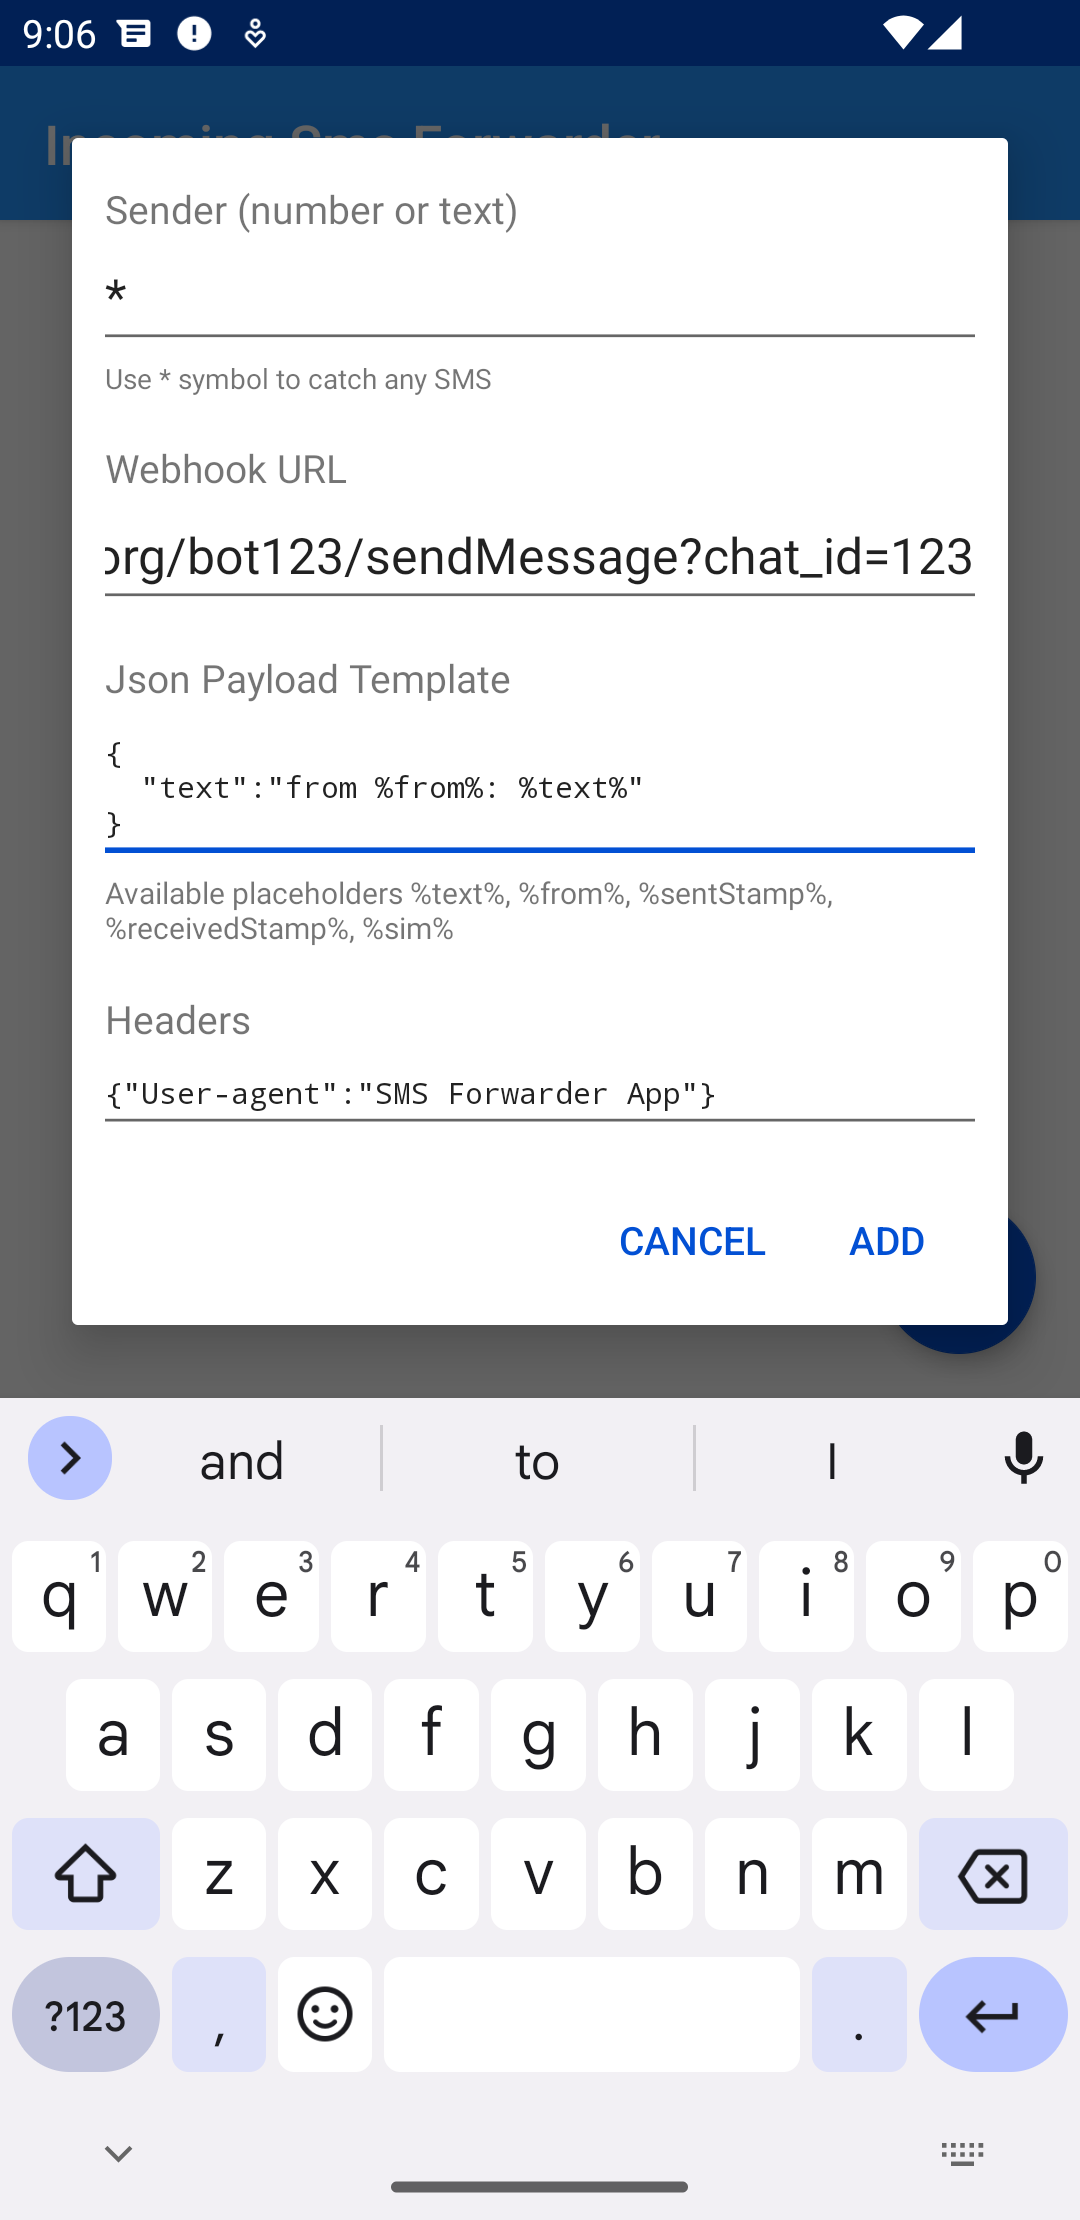
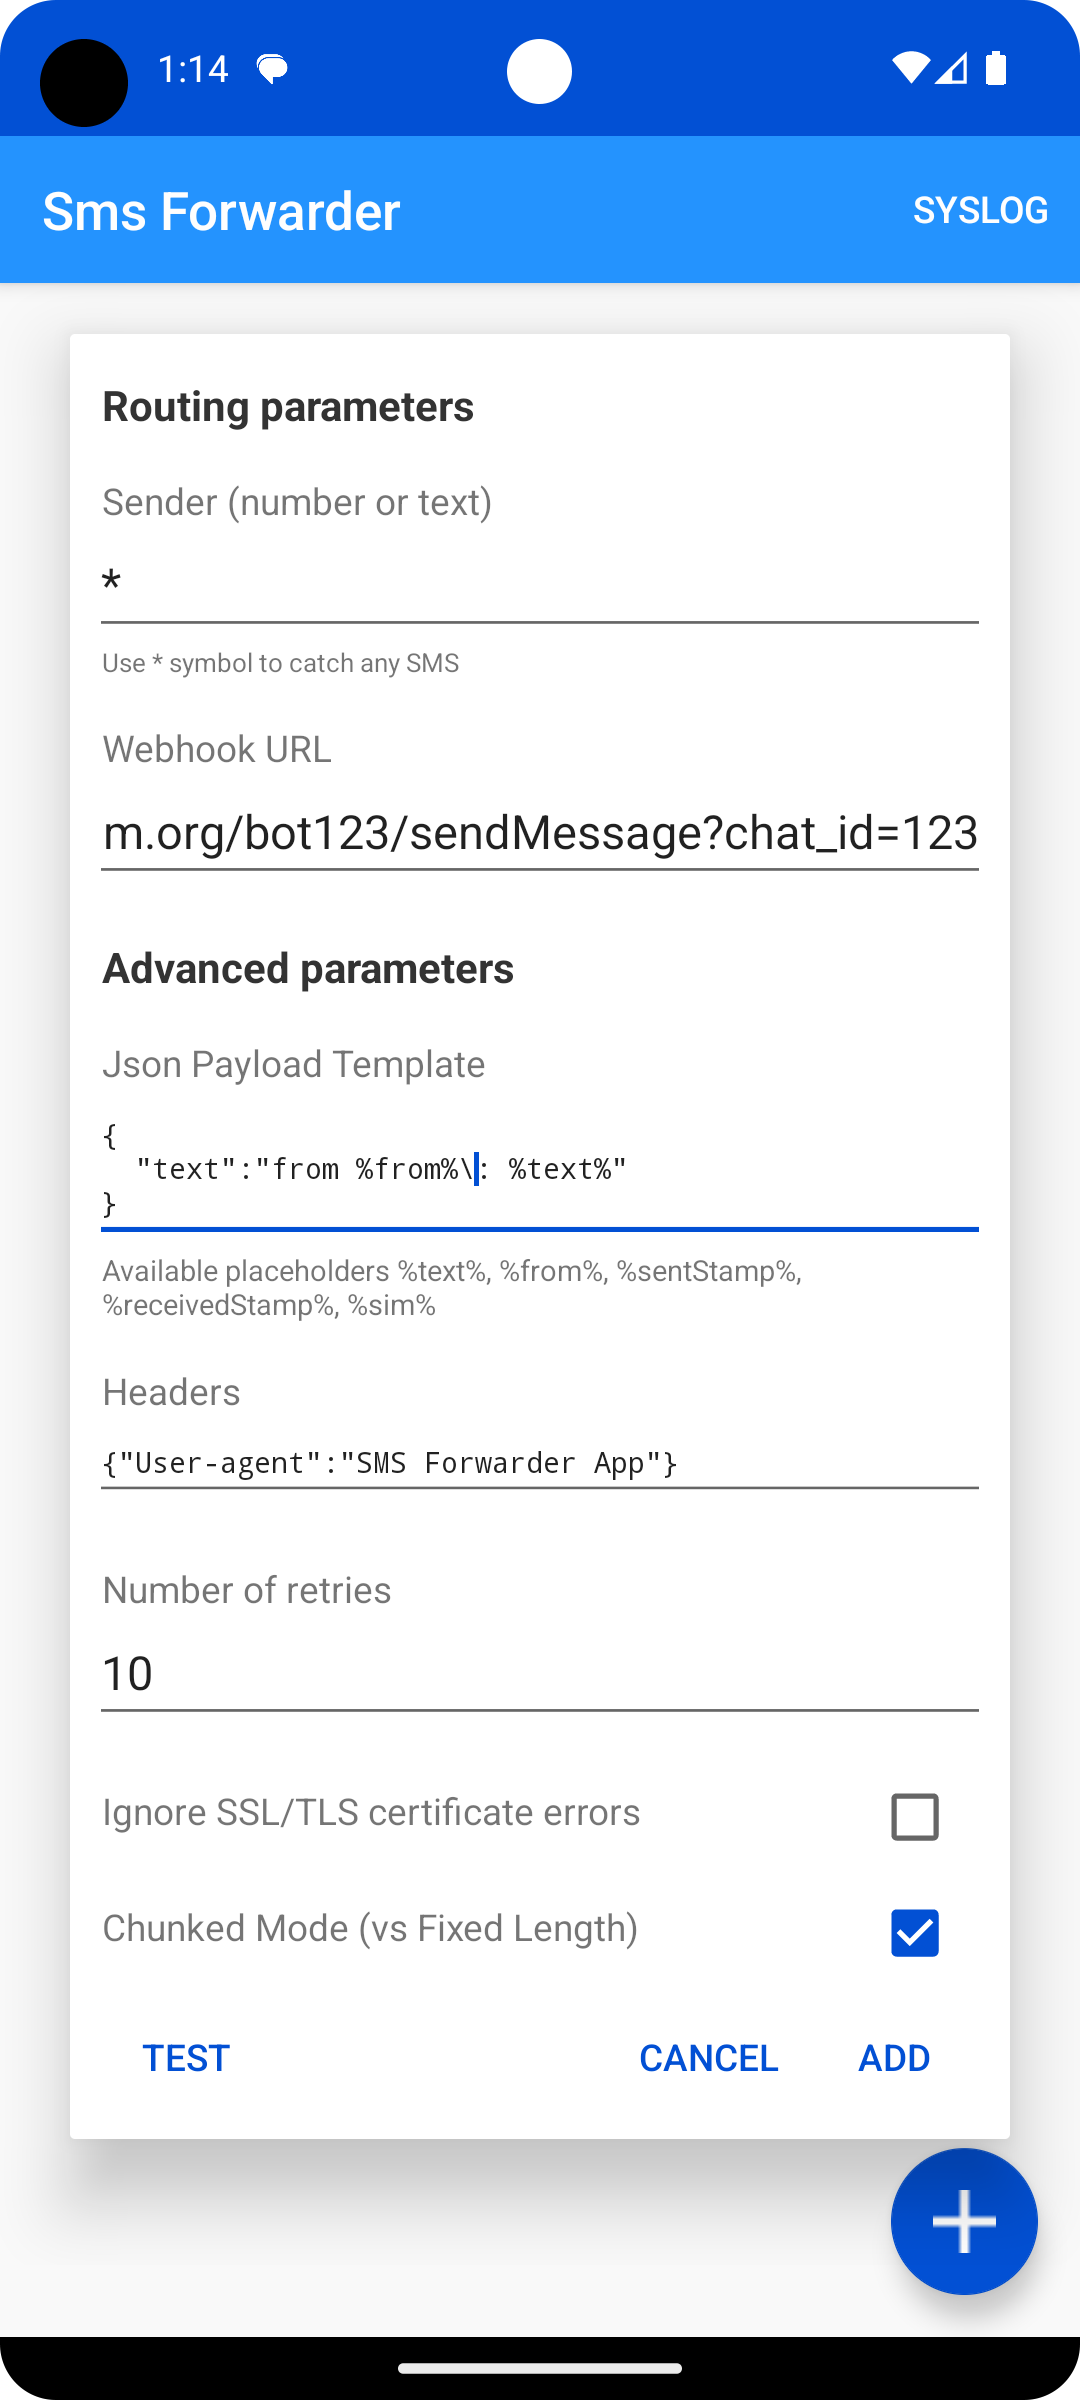
Update readme

diff --git a/README.md b/README.md
@@ -4,17 +4,25 @@
 
 ## How to use
 
-Set up App Permissions for you phone after installation. For example, enable "Autostart" if needed and "Display pop-up windows while running in the background" from Xiaomi devices.
+Set up App Permissions for you phone after installation. For example, enable "Autostart" if needed
+and "Display pop-up windows while running in the background" from Xiaomi devices.
 
 Set sender phone number or name and URL. It should match the number or name you see in the SMS messenger app. 
 If you want to send any SMS to URL, use * (asterisk symbol) as a name.  
 
-Every incoming SMS will be sent immediately to the provided URL. 
-If the response code is not 2XX or the request ended with a connection error, the app will try to send again up to 10 times.
+Every incoming SMS will be sent immediately to the provided URL.
+If the response code is not 2XX or the request ended with a connection error, the app will try to
+send again up to 10 times (can be changed in parameters).
 Minimum first retry will be after 10 seconds, later wait time will increase exponentially.
-If the phone is not connected to the internet, the app will wait for the connection before the next attempt.
+If the phone is not connected to the internet, the app will wait for the connection before the next
+attempt.  
 
-If at least one Forwarding config is created and all needed permissions granted - you should see F icon in the status bar, means the app is listening for the SMS.
+If at least one Forwarding config is created and all needed permissions granted - you should see F
+icon in the status bar, means the app is listening for the SMS.
+
+Press the Test button to make a test request to the server.
+
+Press the Syslog button to view errors stored in the Logcat.
 
 ### Request info
 HTTP method: POST  
@@ -51,7 +59,7 @@ curl -X 'POST' 'https://yourwebsite.com/path' \
 1. Create Telegram bot and channel to receive messages. [There](https://bogomolov.tech/Telegram-notification-on-SSH-login/) is short tutorial how to do that.  
 2. Add new forwarding configuration in the app using this parameters:
    1. Any sender you need, * - on the screenshot
-   2. Webhook URL - https://api.telegram.org/bot<YourBOTToken>/sendMessage?chat_id=<channel_id> - change URL using your token and channel id
+   2. Webhook URL - `https://api.telegram.org/bot<YourBOTToken>/sendMessage?chat_id=<channel_id>` - change URL using your token and channel id
    3. Use this payload as a sample `{"text":"sms from %from% with text: \"%text%\" sent at %sentStamp%"}`
    4. Save configuration
 
